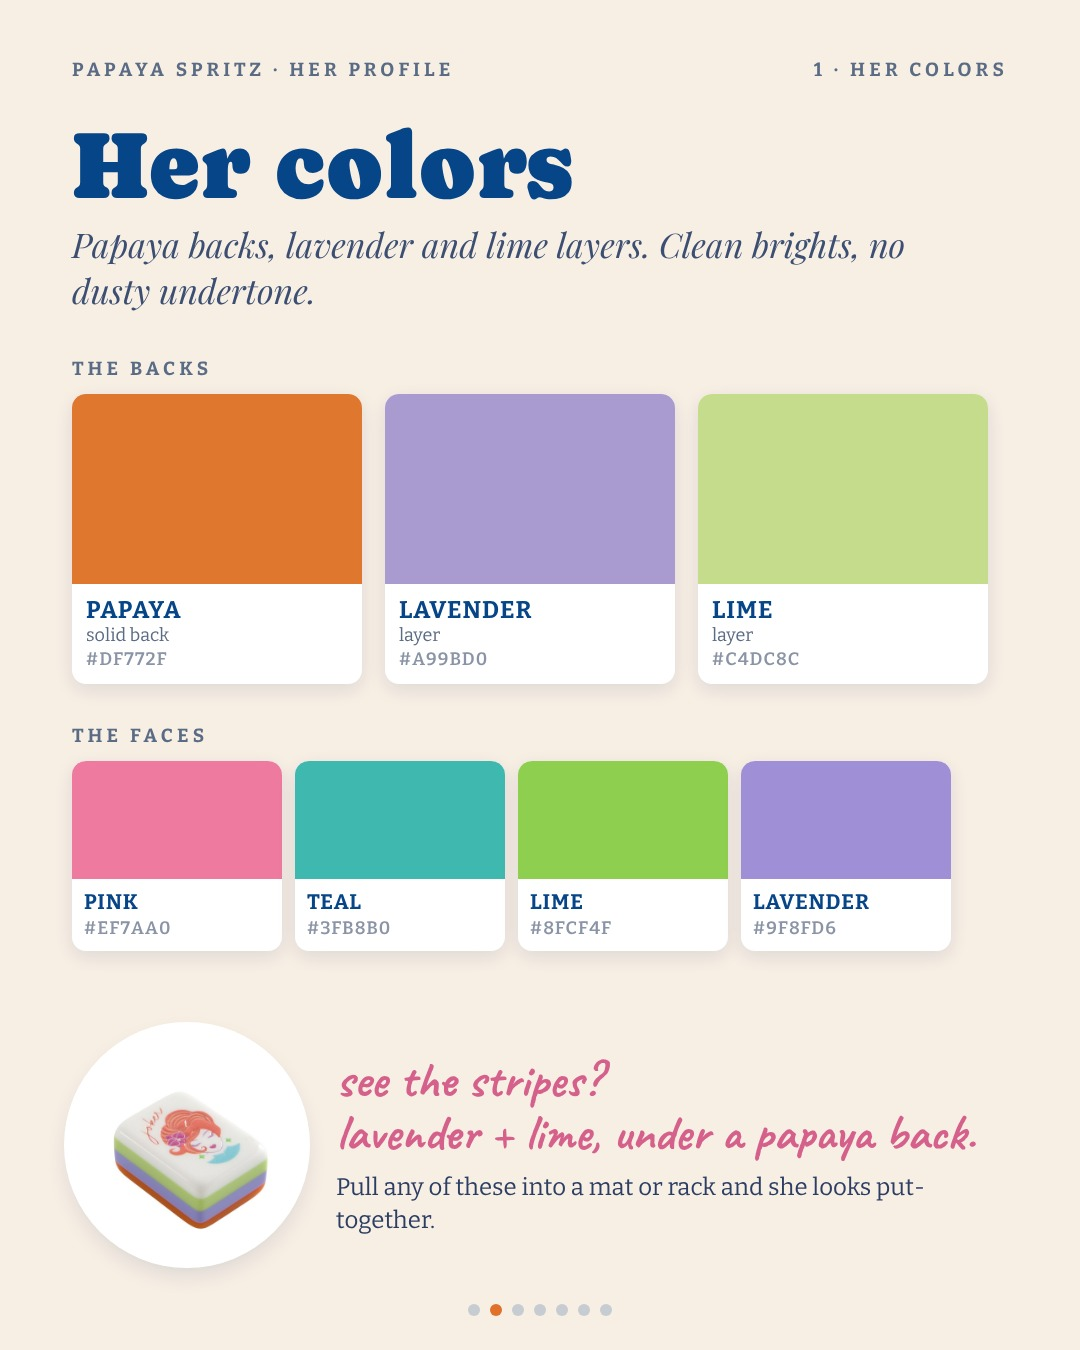
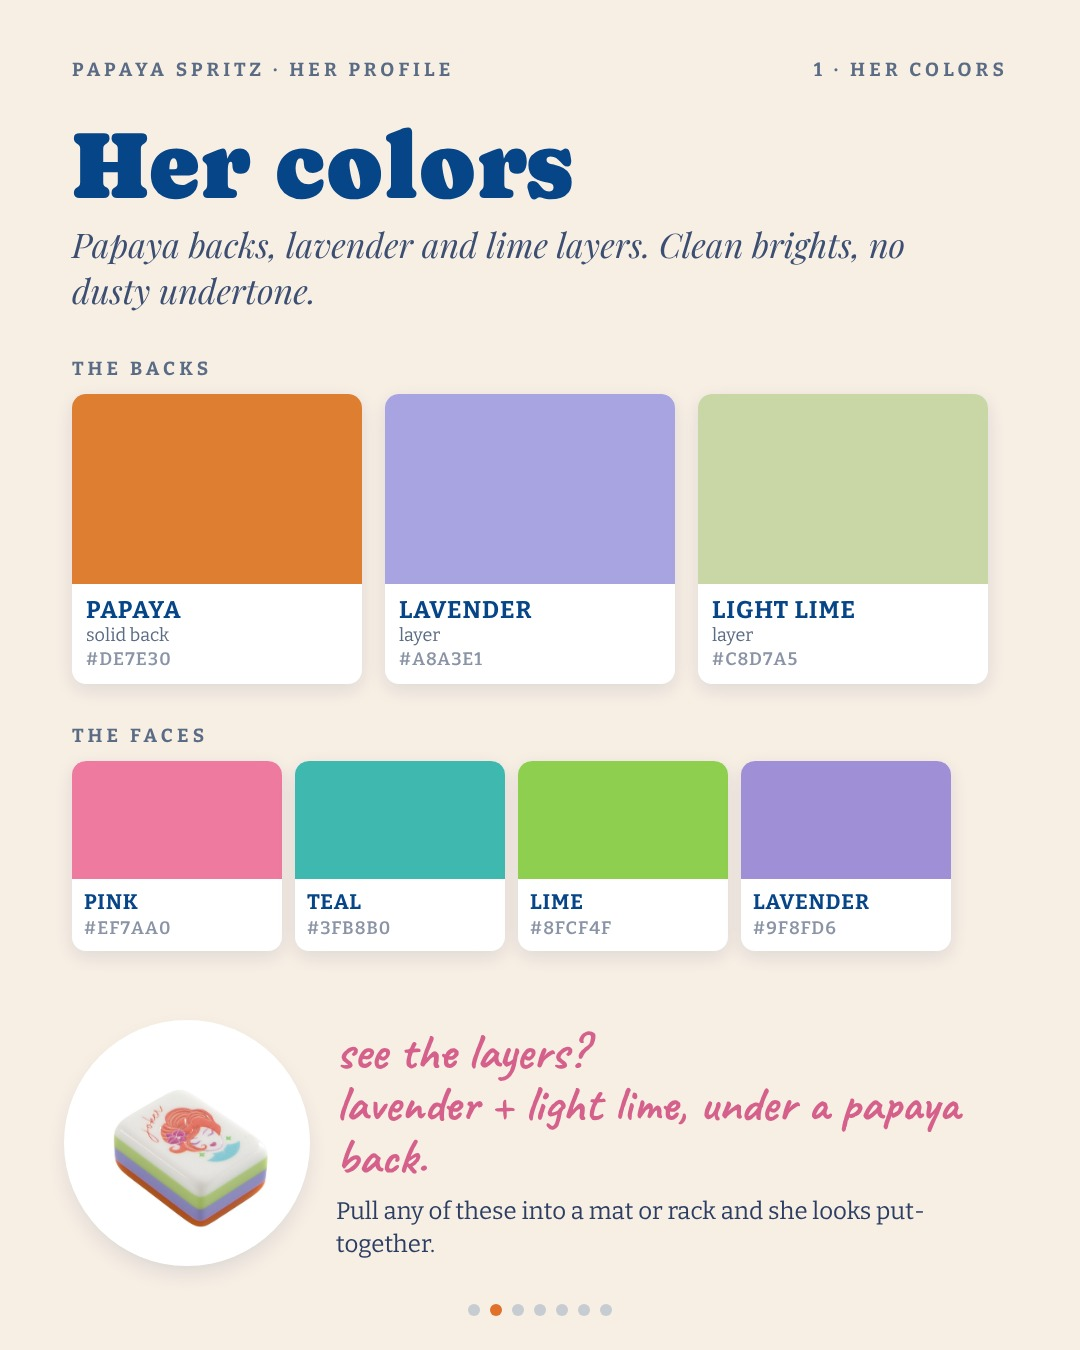
Carousel slide 2: see the layers
Claude-Session: https://claude.ai/code/session_014aKoC1ZMdZPjGkZ9kHhnLk

diff --git a/assets/social/papaya-spritz-launch/html/s6.html b/assets/social/papaya-spritz-launch/html/s6.html
@@ -32,21 +32,21 @@ html,body{width:1080px;height:1350px;overflow:hidden;background:#f7eee4;color:#0
  <div style="display:flex;gap:34px;align-items:center;margin-top:30px">
  <div class="ph" style="flex:0 0 250px;height:250px;border-radius:18px;background-image:url(file:///home/claude/mahjmatchmaker-data/assets/colorcards/papaya-spritz/mats/heiress-britt-mills.jpg);box-shadow:0 8px 22px rgba(6,40,90,.16)"></div>
  <div style="flex:1">
-  <div style="display:flex;gap:8px;align-items:center"><span style="width:30px;height:30px;border-radius:50%;background:#df772f;box-shadow:0 0 0 3px #fff"></span><span style="font:700 26px Bit;color:var(--pink)">+</span><span style="width:30px;height:30px;border-radius:50%;background:#eeaeba;box-shadow:0 0 0 3px #fff"></span><span style="width:30px;height:30px;border-radius:50%;background:#ee904c;box-shadow:0 0 0 3px #fff"></span>
+  <div style="display:flex;gap:8px;align-items:center"><span style="width:30px;height:30px;border-radius:50%;background:#de7e30;box-shadow:0 0 0 3px #fff"></span><span style="font:700 26px Bit;color:var(--pink)">+</span><span style="width:30px;height:30px;border-radius:50%;background:#eeaeba;box-shadow:0 0 0 3px #fff"></span><span style="width:30px;height:30px;border-radius:50%;background:#ee904c;box-shadow:0 0 0 3px #fff"></span>
    <span class="caps" style="font-size:19px;margin-left:8px">Pink + papaya</span></div>
   <div class="pf" style="font-size:36px;margin-top:10px;font-weight:600">Heiress <span style="font-weight:400;font-size:28px;color:#5a6b85">by Britt Mills</span></div>
   <div style="font:400 26px/1.35 Bit;margin-top:6px;color:#2c3e63">A pink ground with an orange border that repeats her backs.</div>
  </div></div><div style="display:flex;gap:34px;align-items:center;margin-top:30px">
  <div class="ph" style="flex:0 0 250px;height:250px;border-radius:18px;background-image:url(file:///home/claude/mahjmatchmaker-data/assets/colorcards/papaya-spritz/mats/press-for-mahjong-anders-ruff.jpg);box-shadow:0 8px 22px rgba(6,40,90,.16)"></div>
  <div style="flex:1">
-  <div style="display:flex;gap:8px;align-items:center"><span style="width:30px;height:30px;border-radius:50%;background:#df772f;box-shadow:0 0 0 3px #fff"></span><span style="font:700 26px Bit;color:var(--pink)">+</span><span style="width:30px;height:30px;border-radius:50%;background:#f6ccdc;box-shadow:0 0 0 3px #fff"></span><span style="width:30px;height:30px;border-radius:50%;background:#f68d20;box-shadow:0 0 0 3px #fff"></span>
+  <div style="display:flex;gap:8px;align-items:center"><span style="width:30px;height:30px;border-radius:50%;background:#de7e30;box-shadow:0 0 0 3px #fff"></span><span style="font:700 26px Bit;color:var(--pink)">+</span><span style="width:30px;height:30px;border-radius:50%;background:#f6ccdc;box-shadow:0 0 0 3px #fff"></span><span style="width:30px;height:30px;border-radius:50%;background:#f68d20;box-shadow:0 0 0 3px #fff"></span>
    <span class="caps" style="font-size:19px;margin-left:8px">Pink with an orange center</span></div>
   <div class="pf" style="font-size:36px;margin-top:10px;font-weight:600">Press for Mahjong <span style="font-weight:400;font-size:28px;color:#5a6b85">by Anders Ruff</span></div>
   <div style="font:400 26px/1.35 Bit;margin-top:6px;color:#2c3e63">Her papaya sits right in the middle of a soft pink mat.</div>
  </div></div><div style="display:flex;gap:34px;align-items:center;margin-top:30px">
  <div class="ph" style="flex:0 0 250px;height:250px;border-radius:18px;background-image:url(file:///home/claude/mahjmatchmaker-data/assets/colorcards/papaya-spritz/mats/greenly-mahj-and-vine.jpg);box-shadow:0 8px 22px rgba(6,40,90,.16)"></div>
  <div style="flex:1">
-  <div style="display:flex;gap:8px;align-items:center"><span style="width:30px;height:30px;border-radius:50%;background:#df772f;box-shadow:0 0 0 3px #fff"></span><span style="font:700 26px Bit;color:var(--pink)">+</span><span style="width:30px;height:30px;border-radius:50%;background:#6ba4f6;box-shadow:0 0 0 3px #fff"></span><span style="width:30px;height:30px;border-radius:50%;background:#bcc31b;box-shadow:0 0 0 3px #fff"></span>
+  <div style="display:flex;gap:8px;align-items:center"><span style="width:30px;height:30px;border-radius:50%;background:#de7e30;box-shadow:0 0 0 3px #fff"></span><span style="font:700 26px Bit;color:var(--pink)">+</span><span style="width:30px;height:30px;border-radius:50%;background:#6ba4f6;box-shadow:0 0 0 3px #fff"></span><span style="width:30px;height:30px;border-radius:50%;background:#bcc31b;box-shadow:0 0 0 3px #fff"></span>
    <span class="caps" style="font-size:19px;margin-left:8px">Opposites attract</span></div>
   <div class="pf" style="font-size:36px;margin-top:10px;font-weight:600">Greenly <span style="font-weight:400;font-size:28px;color:#5a6b85">by Mahj &amp; Vine</span></div>
   <div style="font:400 26px/1.35 Bit;margin-top:6px;color:#2c3e63">Periwinkle sits across the color wheel from orange, so she pops, and the chartreuse picks up her lime layer.</div>

diff --git a/assets/social/papaya-spritz-launch/html/s2.html b/assets/social/papaya-spritz-launch/html/s2.html
@@ -30,13 +30,13 @@ html,body{width:1080px;height:1350px;overflow:hidden;background:#f7eee4;color:#0
  <div class="cap" style="font-size:96px">Her colors</div>
  <div class="pf" style="font-size:34px;margin-top:10px;color:#3c4f73;max-width:900px">Papaya backs, lavender and lime layers. Clean brights, no dusty undertone.</div>
  <div class="caps" style="margin-top:44px;font-size:19px;color:#5a6b85">The backs</div>
- <div style="display:flex;gap:23px;margin-top:14px"><div class="chip" style="width:290px"><div class="sw" style="height:190px;background:#df772f"></div><div class="t"><div class="n">PAPAYA</div><div class="r">solid back</div><div class="h">#DF772F</div></div></div><div class="chip" style="width:290px"><div class="sw" style="height:190px;background:#a99bd0"></div><div class="t"><div class="n">LAVENDER</div><div class="r">layer</div><div class="h">#A99BD0</div></div></div><div class="chip" style="width:290px"><div class="sw" style="height:190px;background:#c4dc8c"></div><div class="t"><div class="n">LIME</div><div class="r">layer</div><div class="h">#C4DC8C</div></div></div></div>
+ <div style="display:flex;gap:23px;margin-top:14px"><div class="chip" style="width:290px"><div class="sw" style="height:190px;background:#de7e30"></div><div class="t"><div class="n">PAPAYA</div><div class="r">solid back</div><div class="h">#DE7E30</div></div></div><div class="chip" style="width:290px"><div class="sw" style="height:190px;background:#a8a3e1"></div><div class="t"><div class="n">LAVENDER</div><div class="r">layer</div><div class="h">#A8A3E1</div></div></div><div class="chip" style="width:290px"><div class="sw" style="height:190px;background:#c8d7a5"></div><div class="t"><div class="n">LIGHT LIME</div><div class="r">layer</div><div class="h">#C8D7A5</div></div></div></div>
  <div class="caps" style="margin-top:40px;font-size:19px;color:#5a6b85">The faces</div>
  <div style="display:flex;gap:13px;margin-top:14px"><div class="chip" style="width:210px"><div class="sw" style="height:118px;background:#ef7aa0"></div><div class="t" style="padding:10px 12px 12px"><div class="n" style="font-size:21px">PINK</div><div class="h">#EF7AA0</div></div></div><div class="chip" style="width:210px"><div class="sw" style="height:118px;background:#3fb8b0"></div><div class="t" style="padding:10px 12px 12px"><div class="n" style="font-size:21px">TEAL</div><div class="h">#3FB8B0</div></div></div><div class="chip" style="width:210px"><div class="sw" style="height:118px;background:#8fcf4f"></div><div class="t" style="padding:10px 12px 12px"><div class="n" style="font-size:21px">LIME</div><div class="h">#8FCF4F</div></div></div><div class="chip" style="width:210px"><div class="sw" style="height:118px;background:#9f8fd6"></div><div class="t" style="padding:10px 12px 12px"><div class="n" style="font-size:21px">LAVENDER</div><div class="h">#9F8FD6</div></div></div></div>
 </div>
 <div style="position:absolute;left:72px;right:72px;bottom:90px;display:flex;align-items:center;gap:34px">
  <div class="ph" style="flex:0 0 230px;height:230px;border-radius:50%;background-color:#fff;background-size:150%;background-image:url(file:///home/claude/mahjmatchmaker-data/assets/launches/omm-papaya-spritz-tiles/06.jpg);box-shadow:0 0 0 8px #fff,0 10px 26px rgba(6,40,90,.16)"></div>
- <div><div class="hand" style="font-size:50px;line-height:1.05">see the stripes?<br>lavender + lime, under a papaya back.</div>
+ <div><div class="hand" style="font-size:50px;line-height:1.05">see the layers?<br>lavender + light lime, under a papaya back.</div>
  <div style="font:400 24px/1.35 Bit;color:#2c3e63;margin-top:12px">Pull any of these into a mat or rack and she looks put-together.</div></div>
 </div>
 <div class="dots"><i style="background:rgba(6,69,135,.2)"></i><i style="background:#e0702a"></i><i style="background:rgba(6,69,135,.2)"></i><i style="background:rgba(6,69,135,.2)"></i><i style="background:rgba(6,69,135,.2)"></i><i style="background:rgba(6,69,135,.2)"></i><i style="background:rgba(6,69,135,.2)"></i></div></div></body></html>

diff --git a/assets/social/papaya-spritz-launch/html/s1.html b/assets/social/papaya-spritz-launch/html/s1.html
@@ -33,7 +33,7 @@ html,body{width:1080px;height:1350px;overflow:hidden;background:#f7eee4;color:#0
  <div class="hand" style="font-size:66px;margin-top:10px;line-height:1">Introducing</div>
  <div class="cap" style="font-size:128px;color:var(--acc);margin-top:2px;white-space:nowrap">Papaya Spritz</div>
  <div class="pf" style="font-size:38px;line-height:1.3;margin-top:20px">Seeking: pink, peach or periwinkle.<br>Must be comfortable around bright color.</div>
- <div style="display:flex;gap:12px;margin-top:26px;align-items:center"><span style="width:38px;height:38px;border-radius:50%;background:#df772f;box-shadow:0 0 0 3px #fff"></span><span style="width:38px;height:38px;border-radius:50%;background:#a99bd0;box-shadow:0 0 0 3px #fff"></span><span style="width:38px;height:38px;border-radius:50%;background:#c4dc8c;box-shadow:0 0 0 3px #fff"></span><span style="width:38px;height:38px;border-radius:50%;background:#ef7aa0;box-shadow:0 0 0 3px #fff"></span><span style="width:38px;height:38px;border-radius:50%;background:#3fb8b0;box-shadow:0 0 0 3px #fff"></span><span style="width:38px;height:38px;border-radius:50%;background:#8fcf4f;box-shadow:0 0 0 3px #fff"></span><span style="width:38px;height:38px;border-radius:50%;background:#9f8fd6;box-shadow:0 0 0 3px #fff"></span>
+ <div style="display:flex;gap:12px;margin-top:26px;align-items:center"><span style="width:38px;height:38px;border-radius:50%;background:#de7e30;box-shadow:0 0 0 3px #fff"></span><span style="width:38px;height:38px;border-radius:50%;background:#a8a3e1;box-shadow:0 0 0 3px #fff"></span><span style="width:38px;height:38px;border-radius:50%;background:#c8d7a5;box-shadow:0 0 0 3px #fff"></span><span style="width:38px;height:38px;border-radius:50%;background:#ef7aa0;box-shadow:0 0 0 3px #fff"></span><span style="width:38px;height:38px;border-radius:50%;background:#3fb8b0;box-shadow:0 0 0 3px #fff"></span><span style="width:38px;height:38px;border-radius:50%;background:#8fcf4f;box-shadow:0 0 0 3px #fff"></span><span style="width:38px;height:38px;border-radius:50%;background:#9f8fd6;box-shadow:0 0 0 3px #fff"></span>
   <span class="hand" style="font-size:40px;margin-left:auto;color:var(--navy)">swipe for her profile &rarr;</span></div>
 </div>
 <div class="dots"><i style="background:#e0702a"></i><i style="background:rgba(6,69,135,.2)"></i><i style="background:rgba(6,69,135,.2)"></i><i style="background:rgba(6,69,135,.2)"></i><i style="background:rgba(6,69,135,.2)"></i><i style="background:rgba(6,69,135,.2)"></i><i style="background:rgba(6,69,135,.2)"></i></div></div></body></html>

diff --git a/assets/social/papaya-spritz-launch/html/s4.html b/assets/social/papaya-spritz-launch/html/s4.html
@@ -36,7 +36,7 @@ html,body{width:1080px;height:1350px;overflow:hidden;background:#f7eee4;color:#0
   <div style="flex:0 0 auto"><svg width="54" height="54" viewBox="0 0 24 24" style="flex:0 0 auto;vertical-align:-3px"><path d="M12 21.5C5.5 16.6 2 13.2 2 8.9 2 5.9 4.4 3.5 7.3 3.5c1.9 0 3.6 1 4.7 2.5 1.1-1.5 2.8-2.5 4.7-2.5 2.9 0 5.3 2.4 5.3 5.4 0 4.3-3.5 7.7-10 12.6z" fill="var(--pink)"/></svg></div>
   <div class="ph" style="flex:0 0 210px;height:210px;border-radius:18px;background-image:url(file:///home/claude/mahjmatchmaker-data/assets/launches/omm-vivienne-mat/01.jpg);background-size:114%;box-shadow:0 8px 22px rgba(6,40,90,.16)"></div>
   <div style="flex:1;padding-left:6px"><div style="display:flex;align-items:center;gap:8px"><svg width="30" height="30" viewBox="0 0 24 24" style="flex:0 0 auto"><path d="M12 21.5C5.5 16.6 2 13.2 2 8.9 2 5.9 4.4 3.5 7.3 3.5c1.9 0 3.6 1 4.7 2.5 1.1-1.5 2.8-2.5 4.7-2.5 2.9 0 5.3 2.4 5.3 5.4 0 4.3-3.5 7.7-10 12.6z" fill="#d6608c" stroke="#fff" stroke-width="1.2"/><path d="M7.6 11.3l3 3 5.8-5.8" fill="none" stroke="#fff" stroke-width="2.2" stroke-linecap="round" stroke-linejoin="round"/></svg><span class="caps" style="font-size:17px;color:var(--pink)">Official pair</span></div>
-   <div style="font:400 25px/1.35 Bit;margin-top:8px;color:#2c3e63">Pink and coral blooms for her pink faces and papaya backs, and a lime stripe in the border for her lime layer.</div></div>
+   <div style="font:400 25px/1.35 Bit;margin-top:8px;color:#2c3e63">Pink and coral blooms for her pink faces and papaya backs, and a band of light lime in the border for her light lime layer.</div></div>
  </div>
 </div>
 <div class="dots"><i style="background:rgba(6,69,135,.2)"></i><i style="background:rgba(6,69,135,.2)"></i><i style="background:rgba(6,69,135,.2)"></i><i style="background:#e0702a"></i><i style="background:rgba(6,69,135,.2)"></i><i style="background:rgba(6,69,135,.2)"></i><i style="background:rgba(6,69,135,.2)"></i></div></div></body></html>
